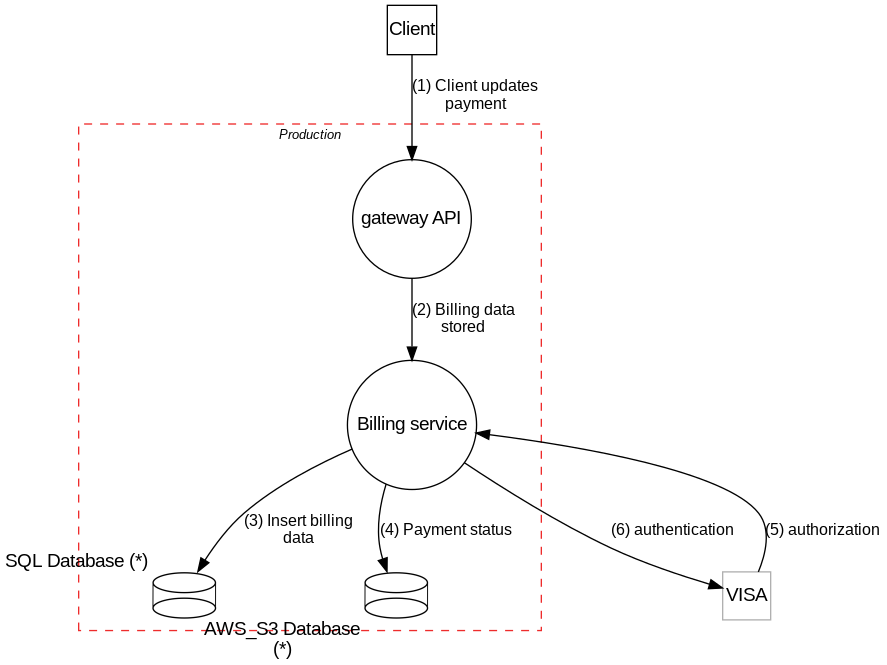
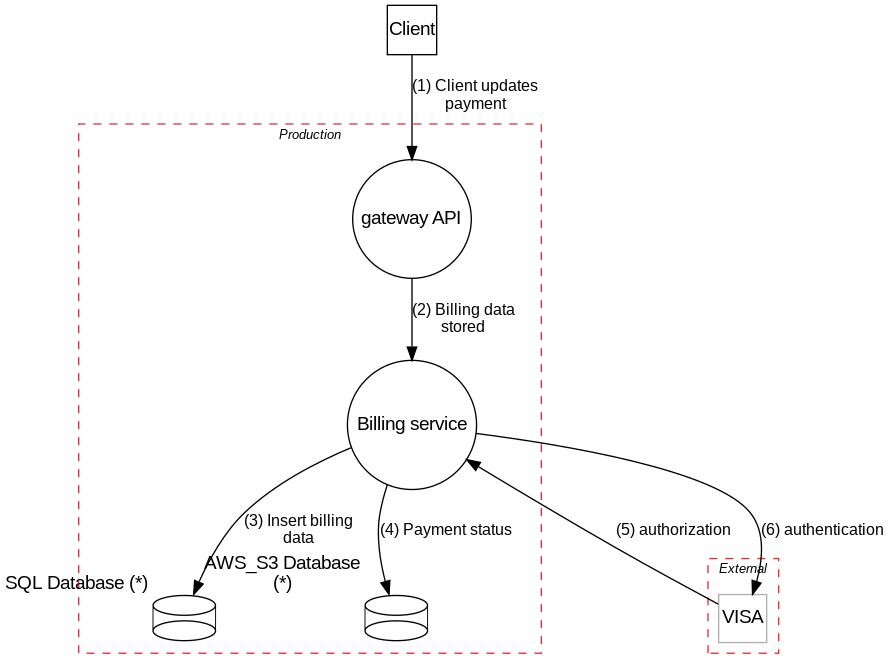
docs: updated DFD and code

diff --git a/report.html b/report.html
@@ -5,8 +5,9 @@ model</h1>
 <p>Fake Aps billing service</p>
 <h2 id="dataflow-diagram">Dataflow Diagram</h2>
 <figure>
-<img src="sample.png" alt="Level 0 DFD" />
-<figcaption aria-hidden="true">Level 0 DFD</figcaption>
+<img src="sample.png" alt="Context layer (level 0) DFD - Fake Aps" />
+<figcaption aria-hidden="true">Context layer (level 0) DFD - Fake
+Aps</figcaption>
 </figure>
 <h2 id="dataflows">Dataflows</h2>
 <table>

diff --git a/fake_threat.py b/fake_threat.py
@@ -8,6 +8,7 @@ tm.isOrdered = True
 
 #Trust boundary
 production = Boundary("Production")
+external = Boundary("External")
 
 #Actor
 client = Actor("Client")
@@ -36,6 +37,7 @@ process_billing_service.inBoundary = production
 #External entities
 external_visa = ExternalEntity("VISA")
 external_visa.inScope = False
+external_visa.inBoundary = external
 
 #data
 update_payment = Data(
